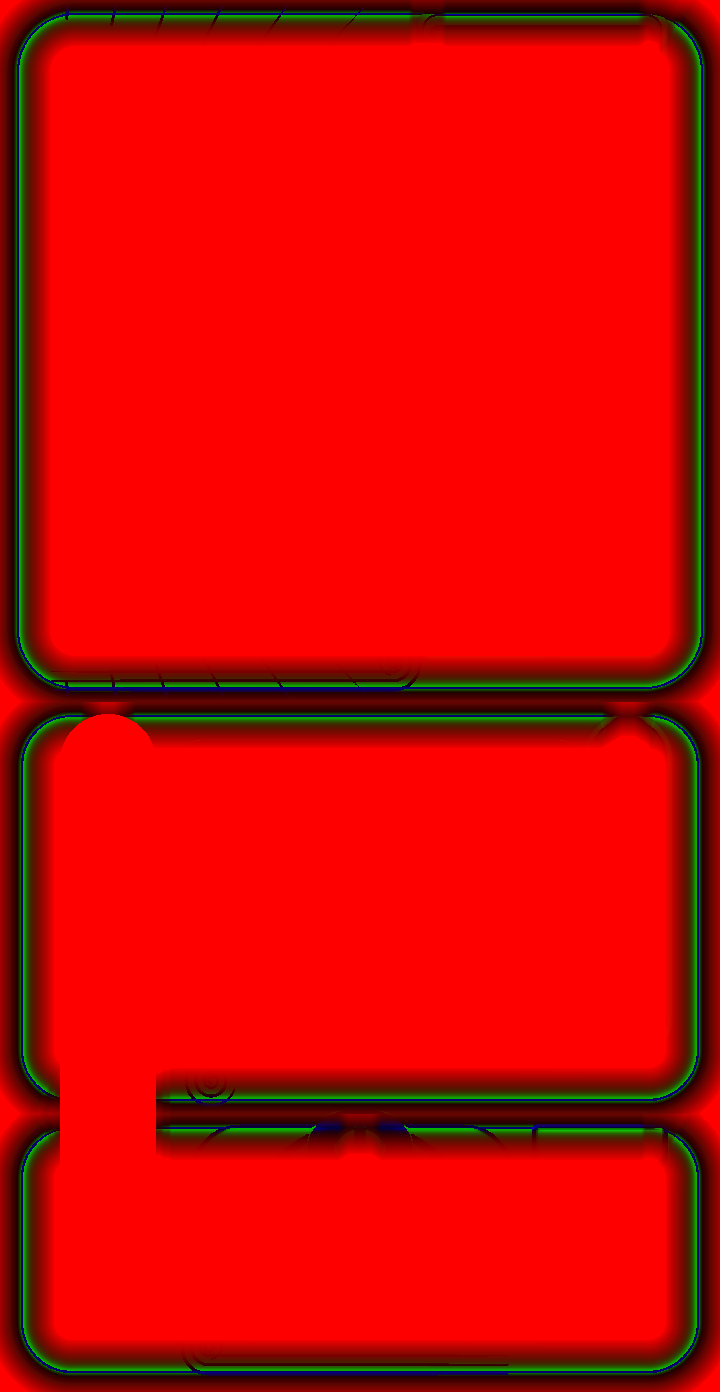
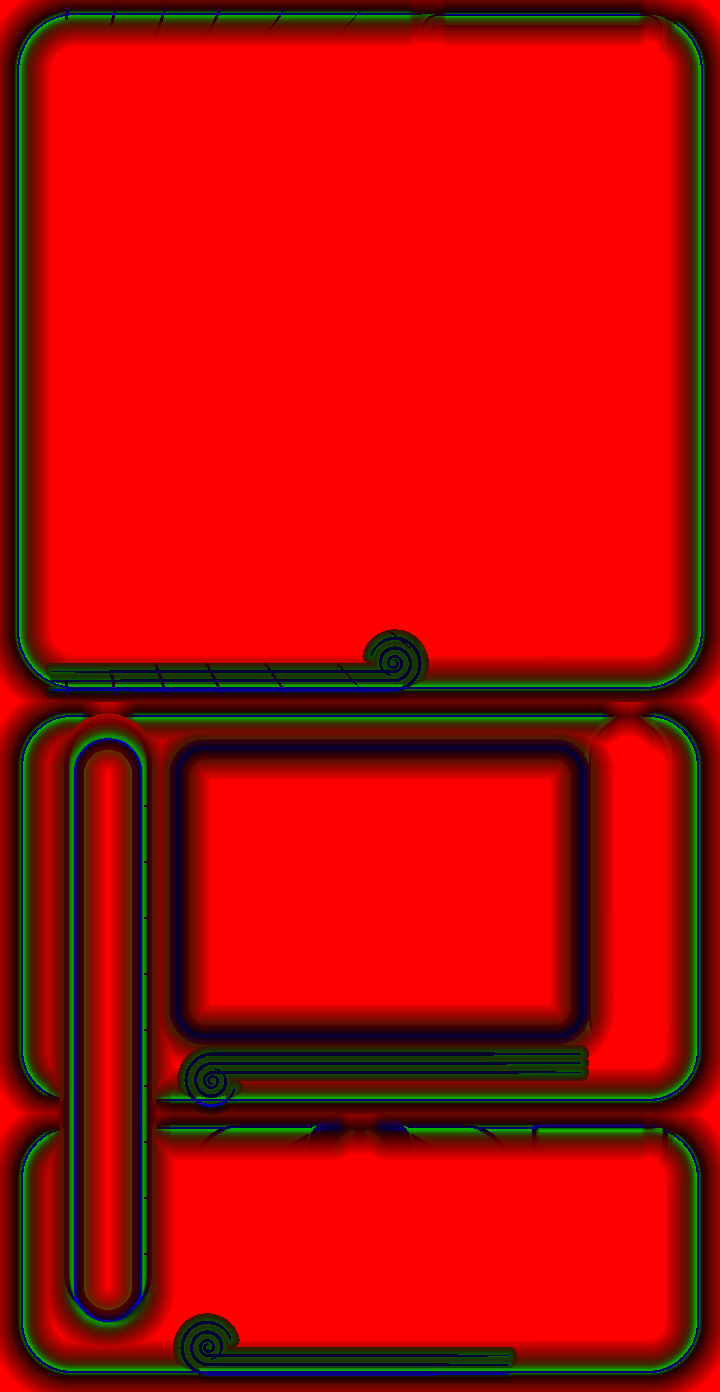
Алчность v2: свет канта — завитки у стыков, рамка экрана и обод колбы (шаг 5 плана 5в)
Завитки — ответвления канта: полосы светятся вместе с кантом под собой,
в спираль свет втекает после стыка (путь по ней запечён). Рамка экрана и
обод колбы горят на крупном выигрыше. Монеты рамки отблеск не ловят —
решение игрока.

Claude-Session: https://claude.ai/code/session_014b7WGtUGzHT9duRP7NWniS

Changed region(s): [[0.0611, 0.4325, 0.8556, 0.9885]]

diff --git a/src/minigames/greed/greed-lux-kant.js b/src/minigames/greed/greed-lux-kant.js
@@ -41,6 +41,8 @@ Object.assign(GreedLux, {
             { amp: 1.1, speed: 0.45, reach: 0.25, tau: 380 },
             { amp: 1.35, speed: 0.75, reach: 0.5, tau: 450, meet: 0.9, next: { amp: 0.6, delay: 140 } },
             { amp: 1.6, speed: 0.95, reach: 0.5, tau: 600, meet: 1.1, n: 3, gap: 320, next: { amp: 0.95, delay: 110 },
+              // рамка экрана и обод колбы — только здесь: весь аппарат горит
+              frames: { rings: [3, 4], amp: 1.0, delay: 260 },
               marquee: { at: 950, ms: 2700, amp: 0.7, wave: 150, period: 1100 } }
         ]
     },
@@ -72,16 +74,17 @@ Object.assign(GreedLux, {
             precision mediump float;
             #endif
             uniform sampler2D uS, uF; uniform vec4 uE[${this.KANT.max}], uP[${this.KANT.max}];
-            uniform float uN, uAll; uniform vec3 uLen, uC0, uC1, uC2; uniform vec4 uBall; uniform vec2 uWH; varying vec2 v;
-            // накал места жилки: кольцо ring, доля круга s
-            float heat(float ring, float s){
-                float L = ring < 0.5 ? uLen.x : (ring < 1.5 ? uLen.y : uLen.z), e = uAll;
+            uniform float uN, uAll, uLen4; uniform vec4 uLen; uniform vec3 uC0, uC1, uC2; uniform vec4 uBall; uniform vec2 uWH; varying vec2 v;
+            // накал места жилки: кольцо ring, доля круга s, ex — путь по
+            // завитку от стыка (свет втекает в спираль позже, чем проходит стык)
+            float heat(float ring, float s, float ex){
+                float L = ring < 0.5 ? uLen.x : (ring < 1.5 ? uLen.y : (ring < 2.5 ? uLen.z : (ring < 3.5 ? uLen.w : uLen4))), e = uAll;
                 for (int i = 0; i < ${this.KANT.max}; i++) {
                     if (float(i) >= uN) break;
                     vec4 E = uE[i], Q = uP[i];
                     // кольцо −1 — событие на всю жилку (маркиза ступени 3)
                     if ((E.x > -0.5 && abs(E.x - ring) > 0.5) || E.z < 0.0) continue;
-                    float ds = abs(s - E.y); ds = min(ds, 1.0 - ds) * L;
+                    float ds = abs(s - E.y); ds = min(ds, 1.0 - ds) * L + ex;
                     if (E.w < 0.5) {
                         // импульс: фронт (гаусс) и остывание за ним; дальше reach — гаснет
                         float f = E.z * Q.y, front = exp(-pow((ds - f) / 9.0, 2.0));
@@ -94,7 +97,7 @@ Object.assign(GreedLux, {
                     } else {
                         // маркиза: бегущая волна яркости вдоль жилки (не точки);
                         // длина волны в единицах, чтобы на всех поясах одна
-                        float m = 0.5 + 0.5 * sin(6.28318 * (s * L / Q.z - E.z / Q.y));
+                        float m = 0.5 + 0.5 * sin(6.28318 * ((s * L + ex) / Q.z - E.z / Q.y));
                         float env = smoothstep(0.0, 300.0, E.z) * (1.0 - smoothstep(Q.w - 700.0, Q.w, E.z));
                         e += Q.x * (0.3 + 0.7 * m * m) * env;
                     }
@@ -104,20 +107,24 @@ Object.assign(GreedLux, {
             void main(){
                 vec3 a = texture2D(uS, v).rgb;
                 if (a.b < 0.002) { gl_FragColor = vec4(0.0); return; }
-                float ring = floor(a.b * 255.0 + 0.5) - 1.0;
-                float s = (a.r * 65280.0 + a.g * 255.0) / 65535.0 * 3.0 - ring;
+                float b = floor(a.b * 255.0 + 0.5), ring = mod(b, 8.0) - 1.0, cq = floor(b / 8.0);
+                float s = (a.r * 65280.0 + a.g * 255.0) / 65535.0 * ${meta.rings.length.toFixed(1)} - ring;
+                float ex = cq > 0.5 ? (cq - 1.0) * ${(meta.estep || 2.5).toFixed(2)} : 0.0;
                 vec3 f = texture2D(uF, v).rgb;
                 if (f.r > 0.99) { gl_FragColor = vec4(0.0); return; }
                 // шар рычага — живая деталь корпуса поверх канта (кадры: свет
                 // ложился на шар); он ездит, поэтому вырез считается здесь
                 float db = length((v - uBall.xy) * uWH) - uBall.z;
                 if (db < 0.0) { gl_FragColor = vec4(0.0); return; }
-                float H = heat(ring, s) * smoothstep(0.0, 1.5, db);
+                float H = heat(ring, s, ex) * smoothstep(0.0, 1.5, db);
                 if (H < 0.003) { gl_FragColor = vec4(0.0); return; }
                 float d = f.r * 255.0 / 15.0;
                 vec3 col = mix(uC0, uC1, smoothstep(0.0, 0.55, H));
                 col = mix(col, uC2, smoothstep(0.62, 1.0, H));
-                float core = 1.0 - smoothstep(0.2, 0.8, d), halo = exp(-d / 1.7);
+                // завиток — роспись золотом, не эмалевая жилка: сердцевина тише
+                float cf = cq > 0.5 ? 1.0 : 0.0, core = (1.0 - smoothstep(0.2, 0.8, d)) * (1.0 - 0.6 * cf);
+                // и ореол уже: у спирали витки близко, широкий сливал её в пятно
+                float halo = exp(-d / mix(1.7, 0.8, cf)) * (1.0 - 0.5 * cf);
                 vec3 c = col * H * (core * 2.2 + halo * 0.5 + f.b * 2.6 + f.g * 1.7);
                 c = min(c, vec3(1.0));
                 gl_FragColor = vec4(c, max(c.r, max(c.g, c.b)));
@@ -138,7 +145,7 @@ Object.assign(GreedLux, {
         tex(imA, 0, gl.NEAREST); tex(imF, 1, gl.LINEAR);
         const U = (n) => gl.getUniformLocation(p, n);
         gl.uniform1i(U('uS'), 0); gl.uniform1i(U('uF'), 1);
-        gl.uniform3fv(U('uLen'), meta.len); gl.uniform3fv(U('uC0'), vec(P.ember)); gl.uniform3fv(U('uC1'), vec(P.amber)); gl.uniform3fv(U('uC2'), vec(P.hot));
+        gl.uniform4fv(U('uLen'), meta.len.slice(0, 4)); gl.uniform1f(U('uLen4'), meta.len[4] || 1); gl.uniform3fv(U('uC0'), vec(P.ember)); gl.uniform3fv(U('uC1'), vec(P.amber)); gl.uniform3fv(U('uC2'), vec(P.hot));
         this._kgl = { gl, uE: U('uE'), uP: U('uP'), uN: U('uN'), uAll: U('uAll'), uBall: U('uBall'), meta };
         gl.uniform2f(U('uWH'), this.kantCv.width / this.K, this.kantCv.height / this.K);
         this._kRing = null;
@@ -212,6 +219,7 @@ Object.assign(GreedLux, {
             // соседние пояса — через стыки, слабее и позже на каждый пояс
             if (T.next) [0, 1, 2].forEach(j => { if (j !== home) pulse(j, a + T.next.delay * Math.abs(j - home), T.next.amp * (k ? 0.8 : 1), !k && n === 1); });
         }
+        if (T.frames) T.frames.rings.forEach(j => { if (M.len[j]) pulse(j, at + T.frames.delay, T.frames.amp, false); });
         if (T.marquee) {
             const Q = T.marquee;
             this.kantAdd({ game, ring: -1, s0: 0, at: at + Q.at, kind: 2, amp: Q.amp, speed: Q.period, reach: Q.wave, tau: Q.ms, life: Q.ms });
@@ -249,7 +257,10 @@ Object.assign(GreedLux, {
             const X1 = Math.min(cv.width, Math.ceil(x1 * k)), Y1 = Math.min(Hc, Math.ceil((y1 - this.Y0) * k));
             if (X1 > X && Y1 > Y) { gl.scissor(X, Hc - Y1, X1 - X, Y1 - Y); gl.drawArrays(gl.TRIANGLE_STRIP, 0, 4); }
         };
-        const rings = new Set(this.kantAll > 0 || this._kEv.some(e => e.ring < 0) ? [0, 1, 2] : this._kEv.map(e => e.ring));
+        const all = K.meta.rings.map((r, i) => i);
+        const rings = new Set(this.kantAll > 0 || this._kEv.some(e => e.ring < 0) ? all : this._kEv.map(e => e.ring));
+        // завитки у стыков — своим прямоугольником при своём кольце
+        (K.meta.curls || []).forEach(c => { if (rings.has(c[0])) rect(c[1], c[2], c[3], c[4]); });
         rings.forEach(i => {
             const [x0, y0, x1, y1] = K.meta.rings[i];
             rect(x0 - R, y0 - R, x1 + R, y0 + R); rect(x0 - R, y1 - R, x1 + R, y1 + R);

diff --git a/tools/greed-lux-sketch/kant.py b/tools/greed-lux-sketch/kant.py
@@ -4,8 +4,14 @@
 # зависит, запекается здесь — на телефоне остаётся только бег импульса.
 #
 #   kant-s.png (без сглаживания): R,G — где точка вдоль жилки (16 бит,
-#     (кольцо + s) / 3, s — доля круга от левого края верха по часовой),
-#     B — номер кольца + 1 (0 — дальше 16 ед. от канта).
+#     (кольцо + s) / NR, s — доля круга от левого края верха по часовой),
+#     B: биты 0–2 — номер кольца + 1 (0 — дальше 16 ед. от канта), биты 3–7 —
+#     завиток: 0 — нет, иначе 1 + путь от стыка по завитку / ESTEP.
+#
+# Кольца: три пояса, рамка экрана и обод колбы (последние два шейдер зажигает
+# только на крупном выигрыше). Завитки у стыков поясов (machine.py: curls) —
+# ответвления: полосы идут вдоль канта и берут его s, спираль — s места
+# примыкания и путь по ней, чтобы свет втекал в неё позже, чем проходит стык.
 #   kant-f.png (со сглаживанием): R — расстояние до оси жилки ×15 (255 —
 #     далеко); G — отражение: насколько поверхность повёрнута к жилке (рельеф
 #     корпуса) × глянец × затенение; B — золото у жилки (маска золота ×
@@ -21,6 +27,15 @@ from PIL import Image
 
 T1, T2, T3 = (4, -55, 356, 292, 34), (6, 296, 354, 498, 30), (6, 502, 354, 634, 30)
 RINGS = [(t[0] + 5, t[1] + 5, t[2] - 5, t[3] - 5, t[4] - 5) for t in (T1, T2, T3)]
+# рамка экрана — середина золотой пластины (machine.py: BEZ, ступень на 8 ед.
+# внутрь); обод колбы — сам обод (machine.py: sd_rrect 37, 312, 71, 604)
+RINGS += [(89, 317, 291, 461, 13), (37, 312, 71, 604, 17)]
+NR = len(RINGS)
+# завитки (machine.py, вызовы curls): кольцо, к которому примыкают, и
+# параметры curls(cx, cyc, y_sign, dirx, x_far)
+CURLS = [(0, (197, 288 - 13.5, 1, 1, 26)), (1, (106, 470 + 13.5, -1, -1, 290)), (2, (104, 630 - 13.5, 1, -1, 254))]
+CREACH = 4.5          # свет завитка — узкий: это роспись, не жилка
+ESTEP = 2.5
 X0, Y0, FW, FH = 0, -57, 360, 696
 PIL_L = (30, 300, 78, 604, 24)   # столб колбы, как в machine.py
 REACH = 16.0          # дальше — света канта нет
@@ -47,6 +62,21 @@ def ring_point(rg, t):
             cx, cy, a0 = {1: (x1 - r, y0 + r, -math.pi / 2), 3: (x1 - r, y1 - r, 0), 5: (x0 + r, y1 - r, math.pi / 2), 7: (x0 + r, y0 + r, math.pi)}[j]
             a = a0 + d[m] / r; x[m], y[m] = cx + np.cos(a) * r, cy + np.sin(a) * r
     return x, y
+
+def curl_lines(cx, cyc, y_sign, dirx, x_far, n=3, gap=4.6, R0=13.5):
+    """Те же полосы, что рисует machine.py: curls(): [(точки, индекс начала спирали)]."""
+    out = []
+    for k in range(n):
+        r = R0 - k * gap
+        y = cyc + y_sign * r
+        pts = [(x_far + (cx - x_far) * i / 30, y) for i in range(31)]
+        turn, shr = [0.7, 0.95, 1.5][k], [0.12, 0.3, 0.7][k]
+        for i in range(1, 41):
+            t = i / 40
+            a = y_sign * math.pi / 2 - y_sign * dirx * t * turn * 2 * math.pi
+            pts.append((cx + math.cos(a) * r * (1 - t * shr), cyc + math.sin(a) * r * (1 - t * shr)))
+        out.append((pts, 30))
+    return out
 
 def nearest(rg, X, Y):
     """Ближайшая точка контура скруглённого прямоугольника: расстояние и s."""
@@ -106,9 +136,21 @@ def main(lux):
     # окне ±VW ед. вдоль кольца: заслон даёт мягкую тень, а не дыру.
     goldm = (M[..., 2] > 0.5).astype(np.float64)
     gm = np.maximum.reduce([np.roll(np.roll(goldm, dy, 0), dx, 1) for dy in (-1, 0, 1) for dx in (-1, 0, 1)])
+    # Столб колбы (machine.py: PIL_L) стоит поверх канта целиком: его золотой
+    # обод проходил проверку выше, и на кадрах по ободу бежали блики — будто
+    # кант светит сквозь колбу. Столб вырезается по своей форме (скруглённый
+    # прямоугольник): прямой вырез оставлял на свету тёмные углы-«ступеньки».
+    # Внутри столба пояса в выборе ближайшего не участвуют — там свет даёт
+    # только обод колбы (иначе граница «ближе пояс / ближе обод» резала
+    # обод косыми крестами).
+    px0, py0, px1, py1, pr = PIL_L
+    qx = np.abs(X - (px0 + px1) / 2) - ((px1 - px0) / 2 - pr)
+    qy = np.abs(Y - (py0 + py1) / 2) - ((py1 - py0) / 2 - pr)
+    pillar = np.hypot(np.maximum(qx, 0), np.maximum(qy, 0)) + np.minimum(np.maximum(qx, qy), 0) - pr < 0
     D = np.full(X.shape, 1e9); RING = np.full(X.shape, -1); SS = np.zeros(X.shape)
     for i, rg in enumerate(RINGS):
         d, s, px, py = nearest(rg, X, Y)
+        if i < 3: d = np.where(pillar, 1e9, d)
         m = d < D
         D = np.where(m, d, D); RING = np.where(m, i, RING); SS = np.where(m, s, SS)
     VIS = np.zeros(X.shape)
@@ -123,16 +165,39 @@ def main(lux):
         VIS = np.where(m, vs[np.clip((SS * n).astype(int), 0, n - 1)], VIS)
     # где жилка скрыта, сердцевина и ореол гаснут: видимость «отодвигает» точку
     D = D + (1 - VIS) * 10
+    # завитки: штамп вокруг частых точек полос, ближайшая точка — своя
+    DC = np.full(X.shape, 1e9); CS = np.zeros(X.shape); CR = np.full(X.shape, -1); CE = np.zeros(X.shape)
+    rad = int(CREACH * S) + 1
+    for ring, args in CURLS:
+        rg = RINGS[ring]
+        for pts, k0 in curl_lines(*args):
+            P = np.array(pts); seg = np.hypot(*(P[1:] - P[:-1]).T); cum = np.concatenate([[0], np.cumsum(seg)])
+            t = np.arange(0, cum[-1], 0.25)
+            qx, qy = np.interp(t, cum, P[:, 0]), np.interp(t, cum, P[:, 1])
+            # полоса — s канта под ней, спираль — s места примыкания + путь
+            sp = t > cum[k0]
+            _, s_pr, _, _ = nearest(rg, qx, qy)
+            _, s_j, _, _ = nearest(rg, np.array([P[k0, 0]]), np.array([P[k0, 1]]))
+            qs = np.where(sp, s_j[0], s_pr); qe = np.where(sp, t - cum[k0], 0)
+            ix = ((qx - X0) * S).astype(int); iy = ((qy - Y0) * S).astype(int)
+            ok = gm[np.clip(iy, 0, hh - 1), np.clip(ix, 0, ww - 1)] > 0.5
+            for dy in range(-rad, rad + 1):
+                for dx in range(-rad, rad + 1):
+                    jx, jy = ix + dx, iy + dy
+                    m = ok & (jx >= 0) & (jx < ww) & (jy >= 0) & (jy < hh)
+                    jx, jy = jx[m], jy[m]
+                    d = np.hypot(X[jy, jx] - qx[m], Y[jy, jx] - qy[m])
+                    # несколько точек в один пиксель: берётся ближайшая (сортировка по убыванию d)
+                    o = np.argsort(-d); jx, jy, d = jx[o], jy[o], d[o]
+                    better = d < DC[jy, jx]
+                    jx, jy, d = jx[better], jy[better], d[better]
+                    DC[jy, jx] = d; CS[jy, jx] = qs[m][o][better]; CE[jy, jx] = qe[m][o][better]; CR[jy, jx] = ring
+    curl = (DC < CREACH) & (DC < D)
+    D = np.where(curl, DC, D); RING = np.where(curl, CR, RING); SS = np.where(curl, CS, SS)
+    VIS = np.where(curl, 1.0, VIS)
+    ENC = np.where(curl, np.clip(1 + np.round(CE / ESTEP), 1, 31), 0).astype(np.uint32)
     vis = VIS > 0.02
-    # Столб колбы (machine.py: PIL_L) стоит поверх канта целиком: его золотой
-    # обод проходил проверку выше, и на кадрах по ободу бежали блики — будто
-    # кант светит сквозь колбу. Столб вырезается по своей форме (скруглённый
-    # прямоугольник): прямой вырез оставлял на свету тёмные углы-«ступеньки».
-    px0, py0, px1, py1, pr = PIL_L
-    qx = np.abs(X - (px0 + px1) / 2) - ((px1 - px0) / 2 - pr)
-    qy = np.abs(Y - (py0 + py1) / 2) - ((py1 - py0) / 2 - pr)
-    pillar = np.hypot(np.maximum(qx, 0), np.maximum(qy, 0)) + np.minimum(np.maximum(qx, qy), 0) - pr < 0
-    near = (D < REACH) & vis & ~pillar
+    near = (D < REACH) & vis
     # нормаль корпуса (как шейдер: шаг 2 текселя)
     gy, gx = np.gradient(h, 1 / S)
     N = np.dstack([-gx, -gy, np.ones_like(h)]); N /= np.linalg.norm(N, axis=2, keepdims=True)
@@ -145,22 +210,29 @@ def main(lux):
     fall = 1 / (1 + (D / 3.5) ** 2)
     gloss = 0.25 + 0.75 * M[..., 0]                          # лак глянцевый, мат — тусклее
     gold = M[..., 2] > 0.5
-    refl = np.where(near & ~gold, facing * fall * gloss * SH * VIS, 0)
+    # у завитков полосы в 4,6 ед. друг от друга: полное отражение сливало их
+    # в одну светящуюся трубку — половина
+    refl = np.where(near & ~gold, facing * fall * gloss * SH * VIS * np.where(ENC > 0, 0.45, 1.0), 0)
     slope = 1 - N[..., 2]
     goldf = np.where(near & gold, np.exp(-D / 1.4) * (0.55 + 3.0 * slope) * (0.6 + 0.4 * SH) * VIS, 0)
     # кодирование
-    u = np.where(near, np.clip((RING + SS) / 3, 0, 1 - 1e-6), 0)
+    u = np.where(near, np.clip((RING + SS) / NR, 0, 1 - 1e-6), 0)
     u16 = (u * 65535).astype(np.uint32)
     A = np.zeros((hh, ww, 3), np.uint8)
     A[..., 0] = np.where(near, u16 >> 8, 0); A[..., 1] = np.where(near, u16 & 255, 0)
-    A[..., 2] = np.where(near, RING + 1, 0)
+    A[..., 2] = np.where(near, (RING + 1) + ENC * 8, 0)
     F = np.zeros((hh, ww, 3), np.uint8)
     F[..., 0] = np.where(near, np.clip(D * 15, 0, 254), 255)
     F[..., 1] = np.clip(refl * 255, 0, 255)
     F[..., 2] = np.clip(goldf / 2 * 255, 0, 255)
     Image.fromarray(A).save(lux + 'kant-s.png', optimize=True)
     Image.fromarray(F).save(lux + 'kant-f.png', optimize=True)
-    json.dump({'rings': RINGS, 'len': [round(ring_len(r), 2) for r in RINGS], 'reach': REACH},
+    # рамки для ножниц: завиток — своим прямоугольником при своём кольце
+    boxes = []
+    for ring, args in CURLS:
+        P = np.array([p for pts, _ in curl_lines(*args) for p in pts])
+        boxes.append([ring] + [round(float(v), 1) for v in (P[:, 0].min() - CREACH, P[:, 1].min() - CREACH, P[:, 0].max() + CREACH, P[:, 1].max() + CREACH)])
+    json.dump({'rings': RINGS, 'len': [round(ring_len(r), 2) for r in RINGS], 'reach': REACH, 'curls': boxes, 'estep': ESTEP},
               open(lux + 'kant.json', 'w'))
     print('ok', ww, hh, 'S', S, 'len', [round(ring_len(r), 1) for r in RINGS])
 

diff --git a/docs/plan/31-greed-premium.md b/docs/plan/31-greed-premium.md
@@ -744,8 +744,14 @@
 4. ✔ Параллельность: событий до 24, переполнение убирает то, что кончится
    раньше всех; тест в `test-greed-v2` — три выигрыша внахлёст, через 1,2 с
    живы все три.
-5. Стыки и завитки, кант экрана и колбы на ступени 3.
-6. Монеты рамки — по согласованию.
+5. ✔ Завитки у стыков — ответвления: полосы берут s канта под собой,
+   спираль — s места примыкания плюс путь по ней (в карте `kant-s.B`, биты
+   3–7), поэтому свет втекает в спираль после стыка. У завитков сердцевина,
+   ореол и отражение тоньше — иначе полосы в 4,6 ед. сливались в трубку.
+   Рамка экрана и обод колбы — кольца 3 и 4, горят только на ступени 3 и в
+   маркизе. Внутри столба колбы пояса в выборе ближайшего не участвуют
+   (граница «пояс / обод» резала обод косыми крестами).
+6. ✘ Монеты рамки отблеск не ловят — решение игрока (20.11).
 7. Замер на телефоне (бот), журнал.
 
 ## 5б. Бандит версии 2 — план доводки (18.11)
